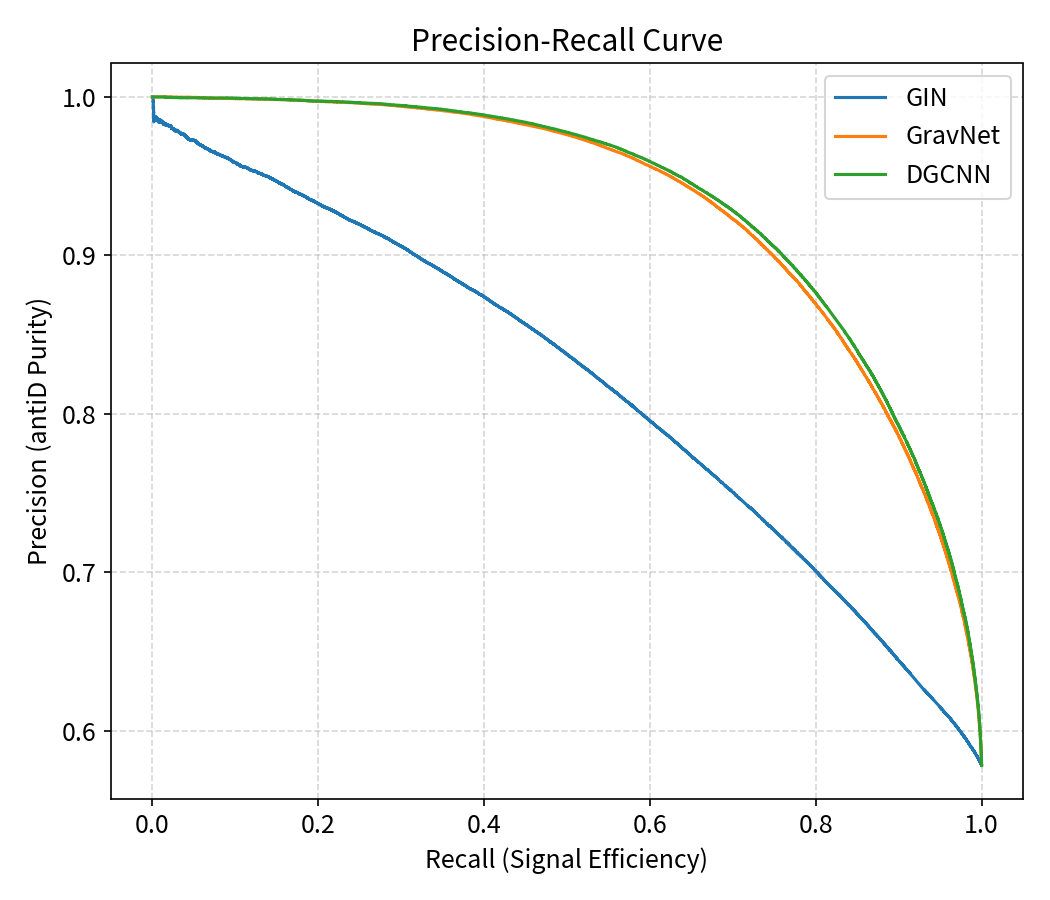
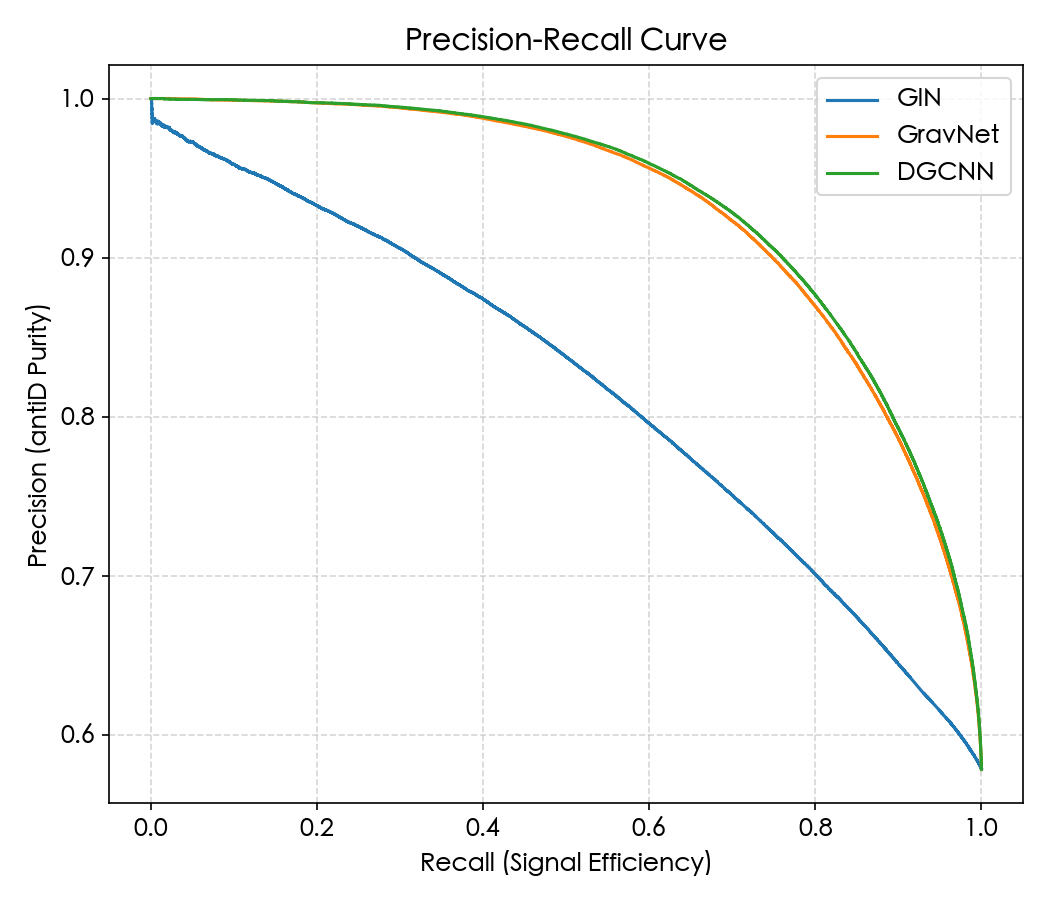
修正阈值 β后

diff --git a/GAPS_Project/src/scripts/evaluate.py b/GAPS_Project/src/scripts/evaluate.py
@@ -354,7 +354,7 @@ def analyze_threshold():
 
 
 if __name__ == '__main__':
-   # evaluate()        # 完整推理+评估（第一次运行）
+   evaluate()        # 完整推理+评估（第一次运行）
     # analyze_only()    # 只输出各效率下的Rejection表
-    analyze_threshold()  # 阈值优化分析（无需重新推理）
+    # analyze_threshold()  # 阈值优化分析（无需重新推理）
 
